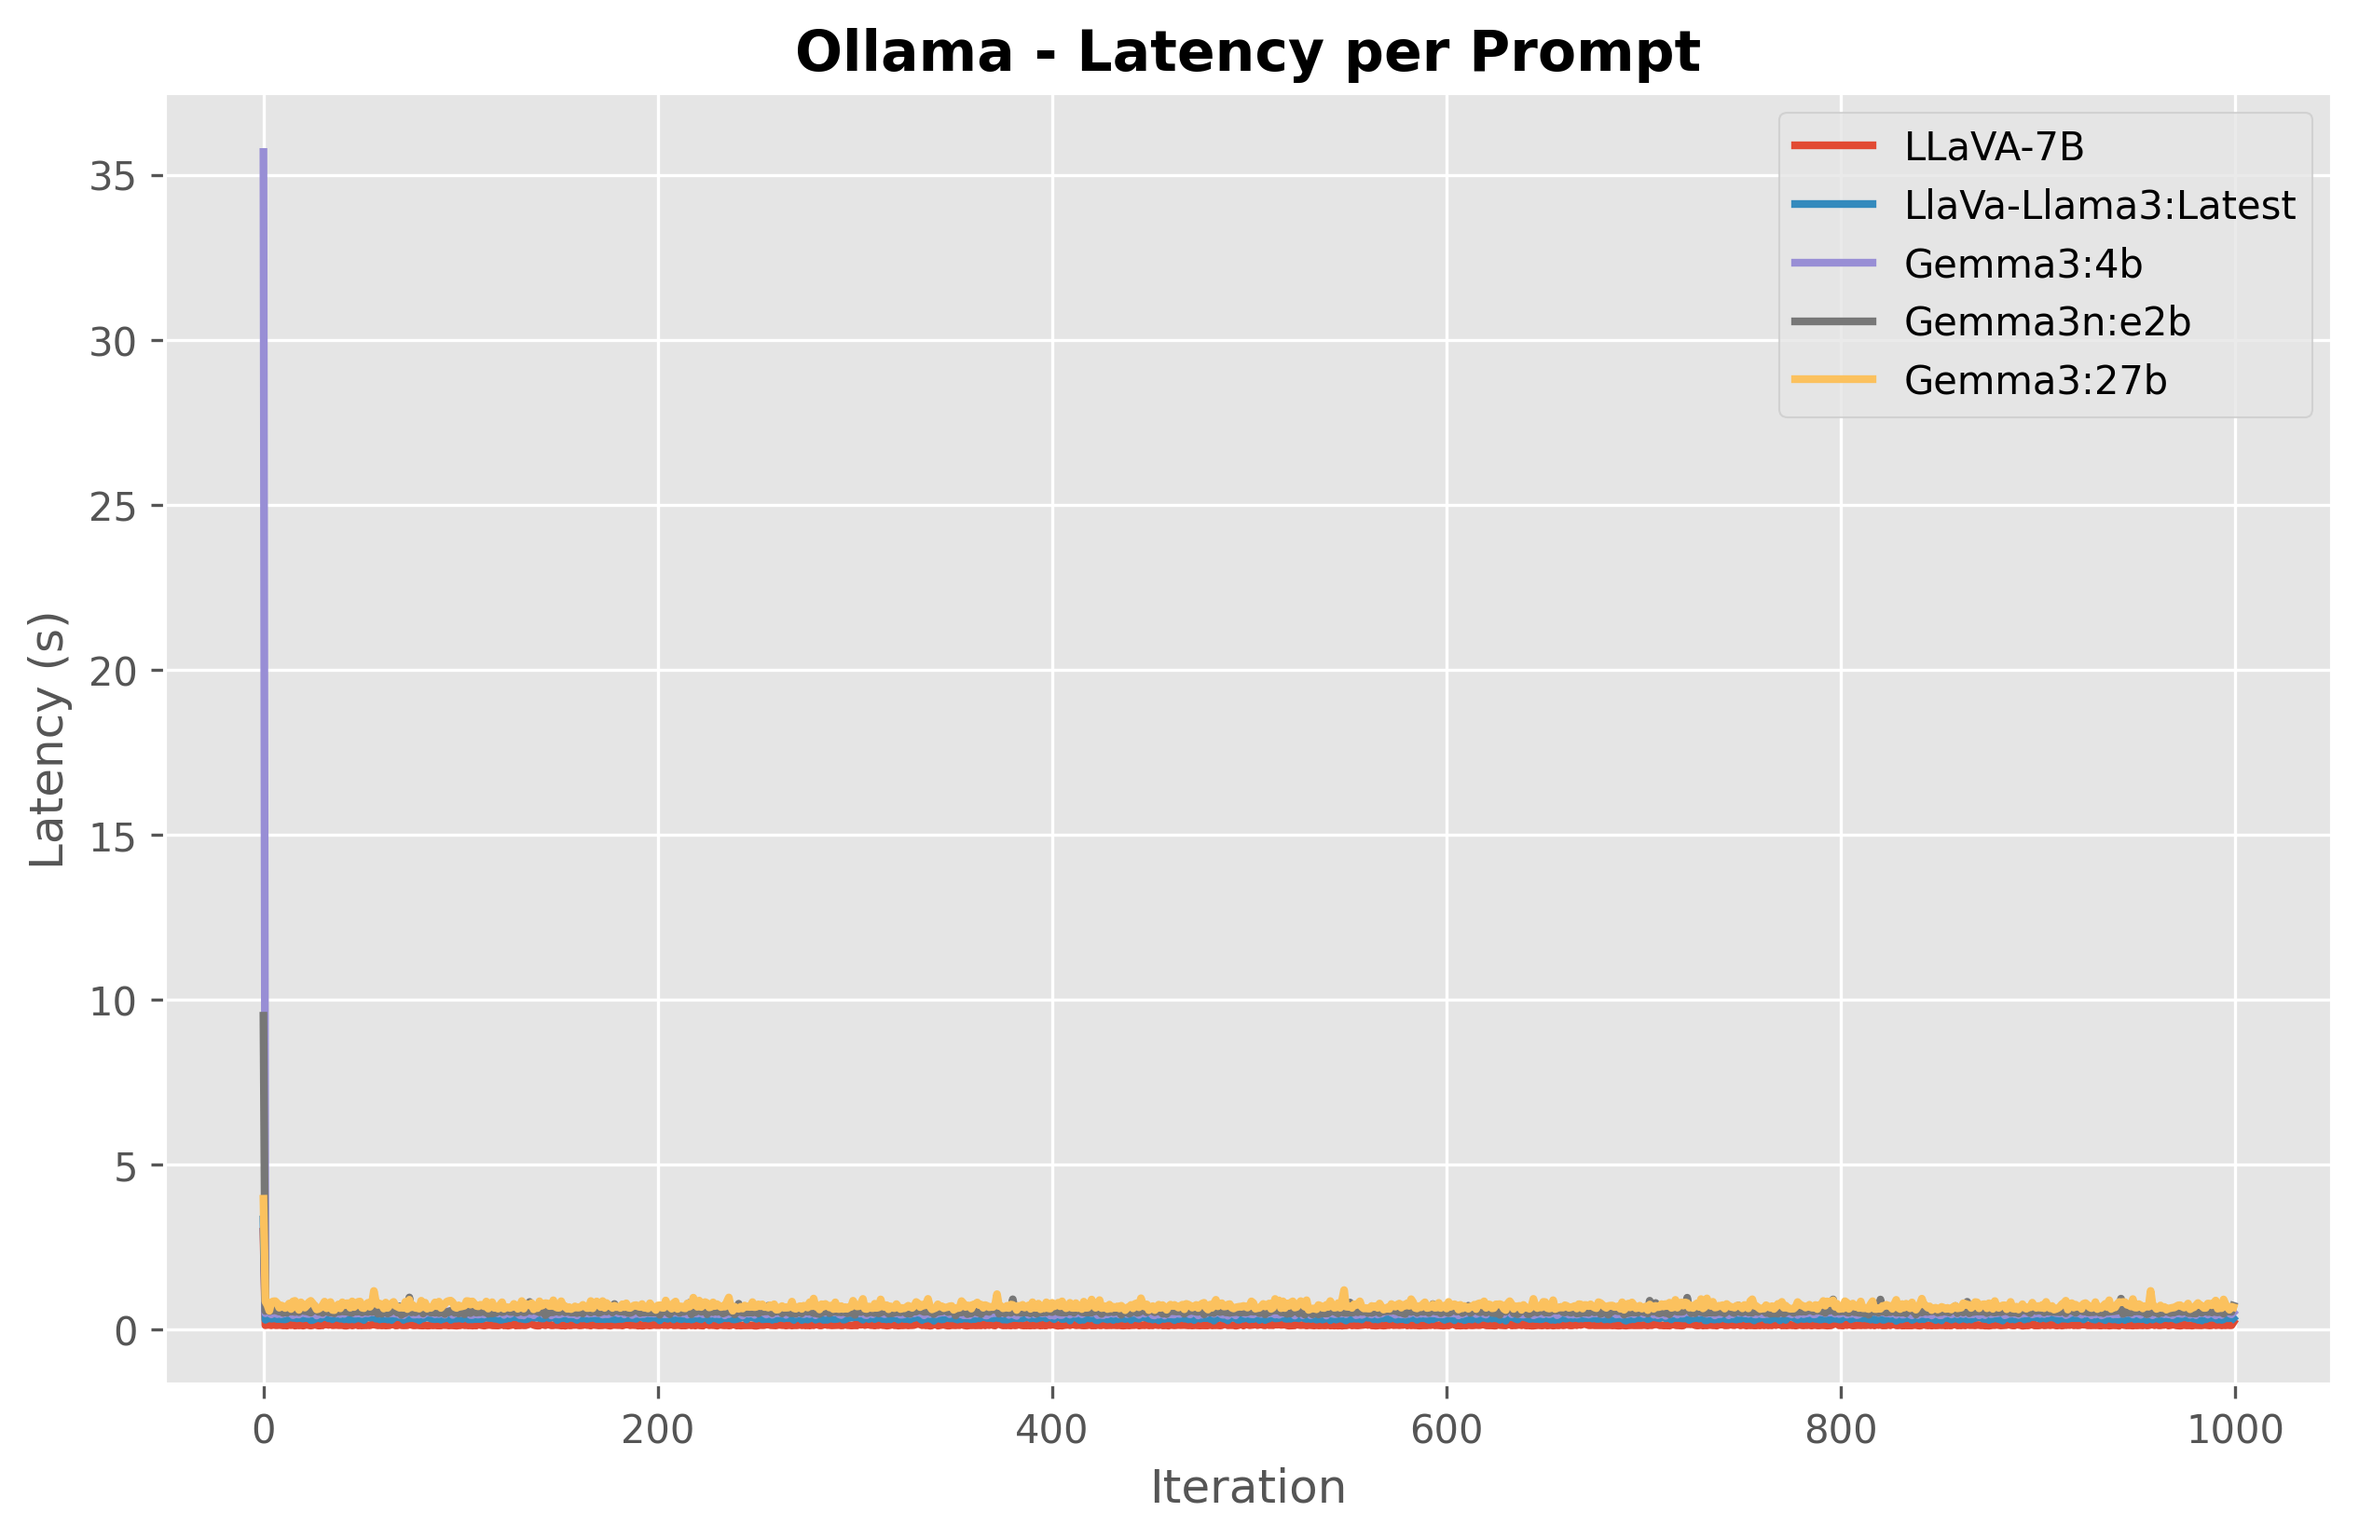
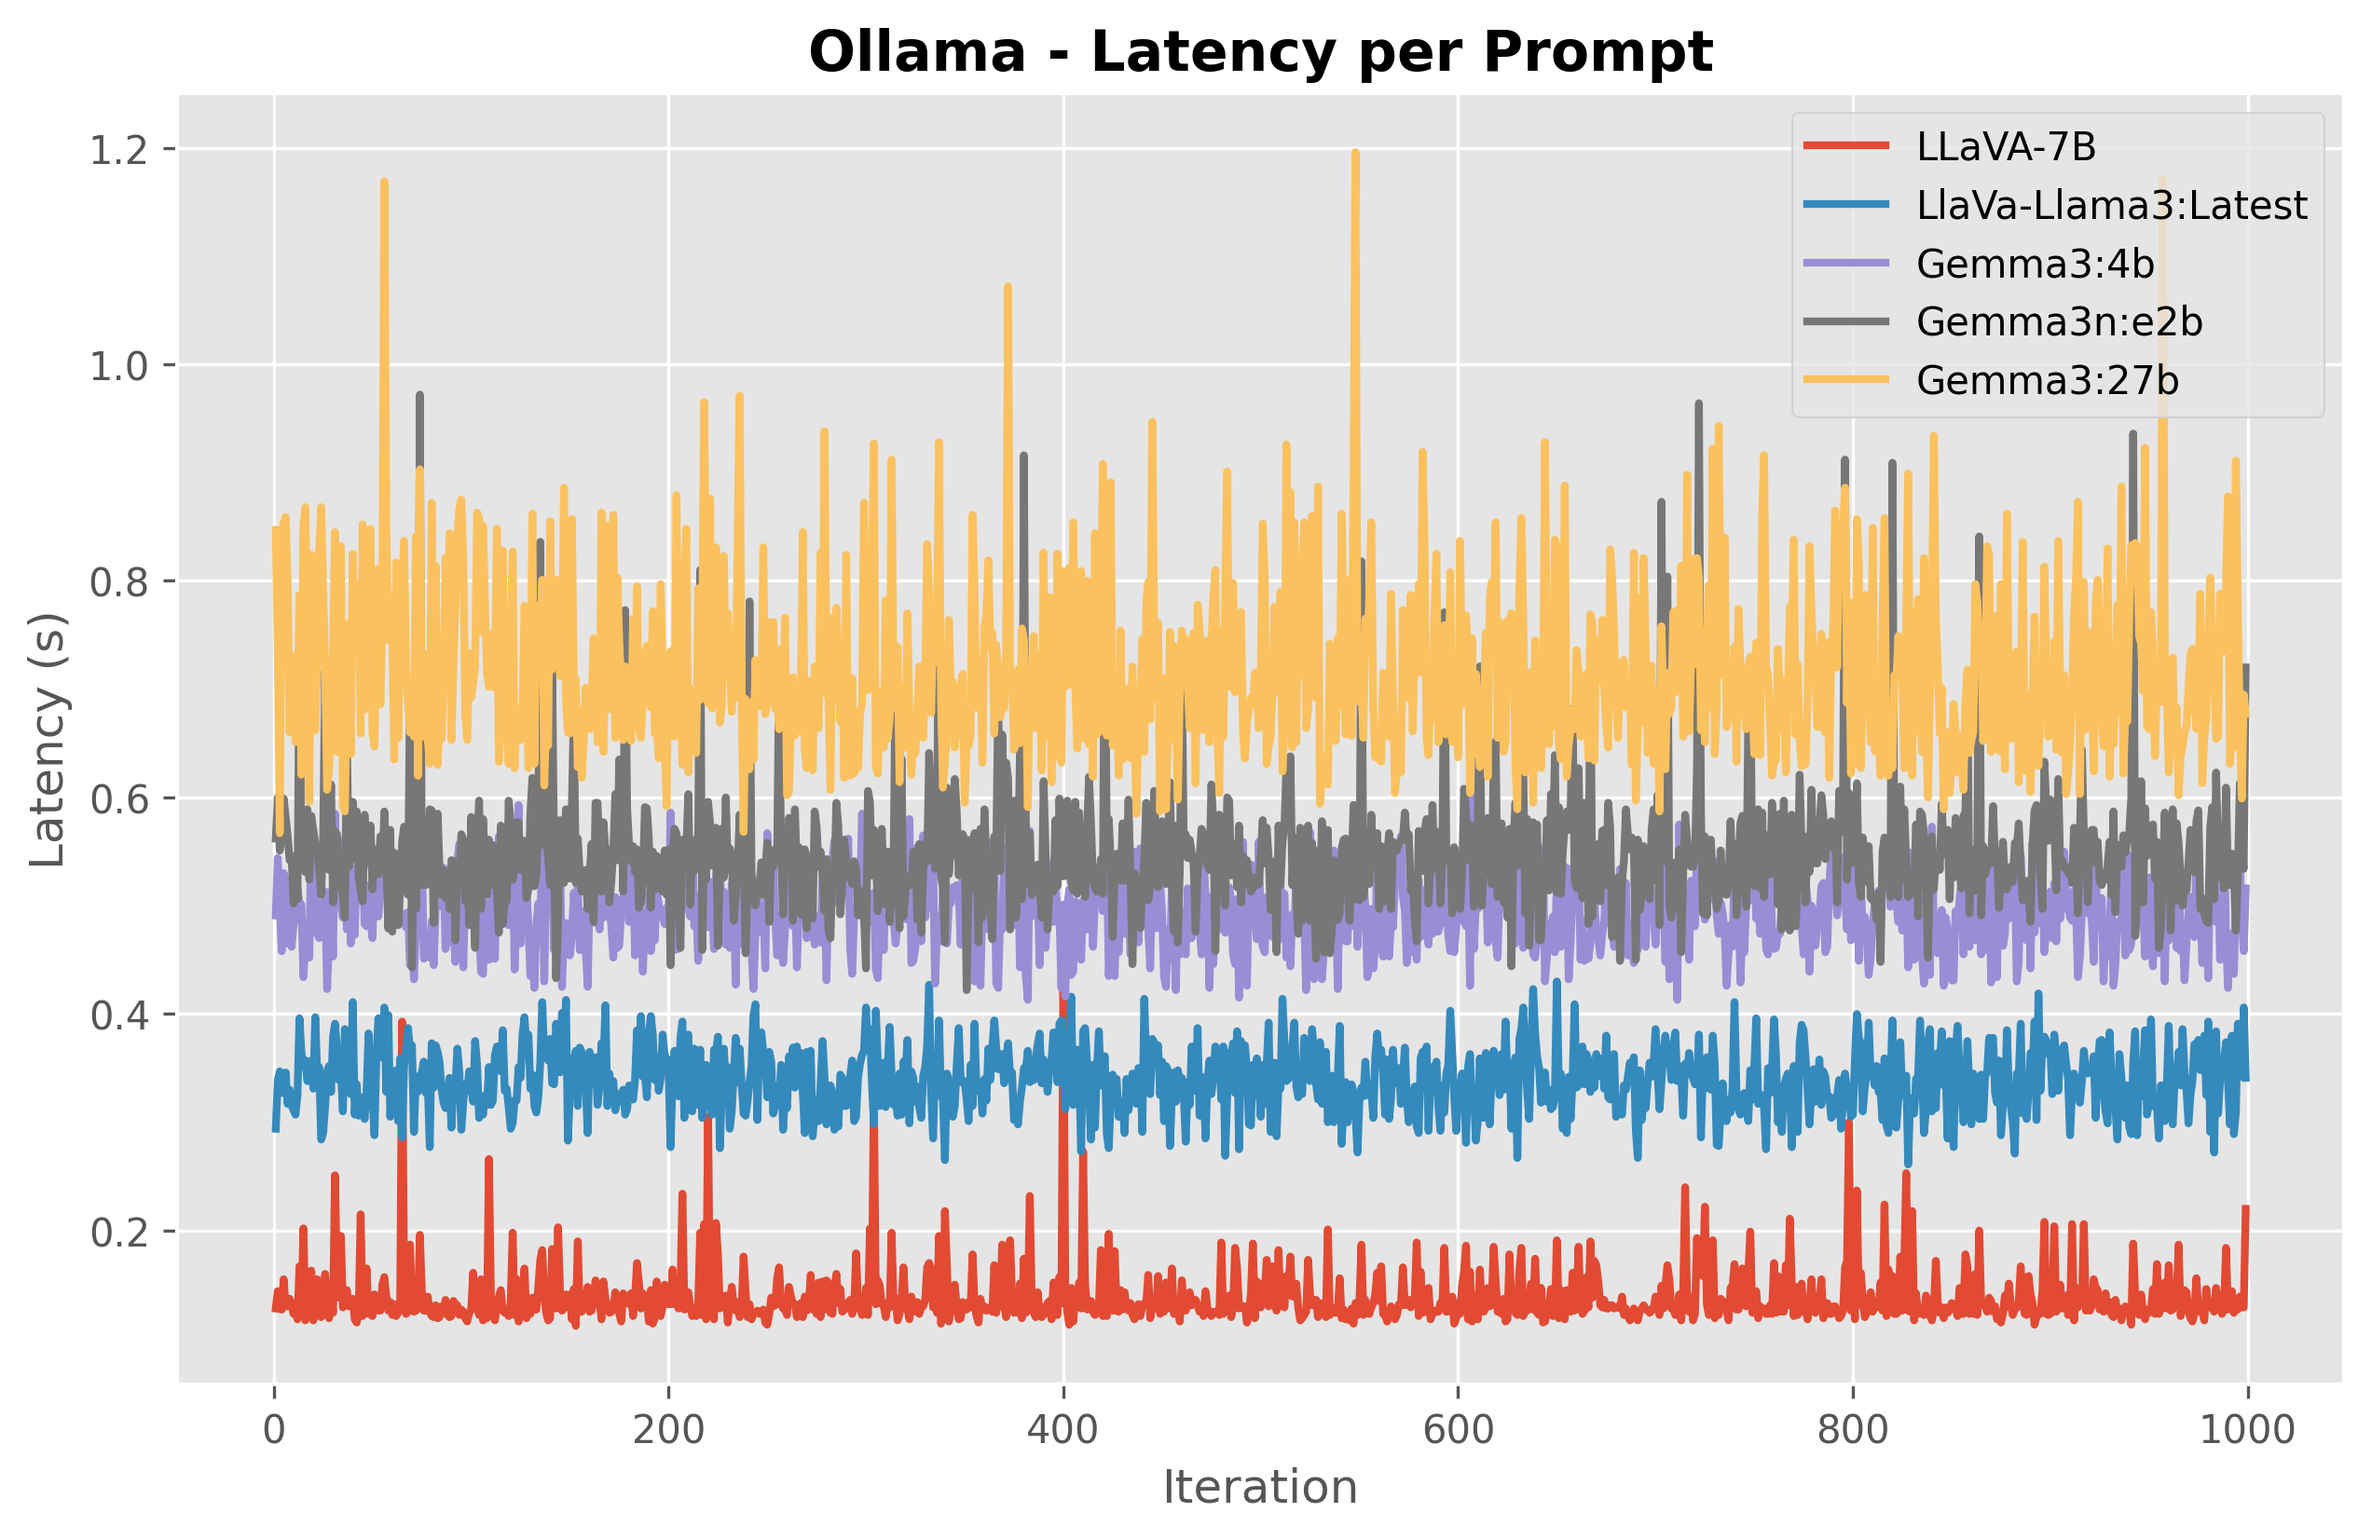
Updated latency

diff --git a/plots.py b/plots.py
@@ -164,6 +164,29 @@ def plot_temperature(cfg):
         ax.legend()
         save(fig, cfg["plots_dir"], f"temperature_{engine}.png")
 
+# ------------ Plot: Accuracy vs Temperature -------------- #
+
+def plot_accuracy_vs_temp(cfg):
+    for engine, models in cfg["models"].items():
+        fig, ax = plt.subplots(figsize=(10, 6))
+        
+        for model, file in models.items():
+            df = load_csv(cfg["results_dir"], file)
+            if "max_gpu_temp_c" in df.columns and "correct" in df.columns:
+                # Round temperature to nearest degree to group them
+                df["temp_bin"] = df["max_gpu_temp_c"].round()
+                # Group by temp bin and calculate mean accuracy
+                temp_acc = df.groupby("temp_bin")["correct"].mean() * 100
+                
+                ax.plot(temp_acc.index, temp_acc.values, marker='o', label=model, linewidth=2)
+
+        ax.set_xlabel("GPU Temperature (°C)")
+        ax.set_ylabel("Accuracy (%)")
+        ax.set_title(f"{engine} - Accuracy Trend as Temperature Rises", weight="bold")
+        ax.legend()
+        ax.grid(True, linestyle='--', alpha=0.7)
+        save(fig, cfg["plots_dir"], f"acc_vs_temp_{engine}.png")
+
 # ---------------- Main ---------------- #
 
 def main():
@@ -174,20 +197,24 @@ def main():
     p.add_argument("--latency", action="store_true")
     p.add_argument("--power", action="store_true")
     p.add_argument("--temp", action="store_true")
+    p.add_argument("--acc-vs-temp", action="store_true")
+    p.add_argument("--all", action="store_true", help="Run all plots")
     args = p.parse_args()
 
     cfg = load_config(args.config)
 
-    if args.accuracy:
+    if args.accuracy or args.all:
         plot_accuracy(cfg)
-    if args.accuracy_by_type:
+    if args.accuracy_by_type or args.all:
         plot_accuracy_by_type(cfg)
-    if args.latency:
+    if args.latency or args.all:
         plot_latency(cfg)
-    if args.power:
+    if args.power or args.all:
         plot_power(cfg)
-    if args.temp:
+    if args.temp or args.all:
         plot_temperature(cfg)
+    if args.acc_vs_temp or args.all:
+        plot_accuracy_vs_temp(cfg)
 
 if __name__ == "__main__":
     main()

diff --git a/models.md b/models.md
@@ -4,6 +4,9 @@
 | gemma3n:e2b | google/gemma-3n-e2b-it |
 | llava:7b | llava-hf/llava-1.5-7b-hf |
 | llava-llama3:latest | xtuner/llava-llama-3-8b-v1.1 |
+| ministral-3:latest |
+| ministral-3:3b |
+| ministral-3:14b |
 
 > [!NOTE]
 > Ollama uses 4-bit quantization, while vLLM uses 16-bit by default. 
